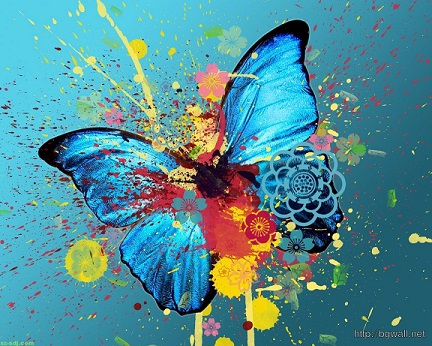
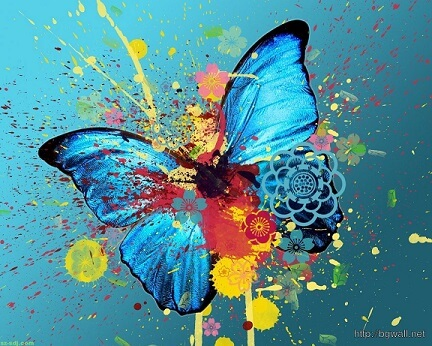
Minor fixes, compress pngs

diff --git a/app/src/main/java/com/amaze/fileutilities/image_viewer/editor/base/BaseActivity.kt b/app/src/main/java/com/amaze/fileutilities/image_viewer/editor/base/BaseActivity.kt
@@ -10,23 +10,24 @@
 
 package com.amaze.fileutilities.image_viewer.editor.base
 
-import android.R
-import android.app.ProgressDialog
 import android.content.pm.PackageManager
 import android.view.View
 import android.view.Window
 import android.view.WindowManager
 import android.widget.Toast
 import androidx.activity.result.contract.ActivityResultContracts
+import androidx.appcompat.app.AlertDialog
 import androidx.appcompat.app.AppCompatActivity
 import androidx.core.content.ContextCompat
+import com.amaze.fileutilities.R
+import com.amaze.fileutilities.utilis.Utils.Companion.showProcessingDialog
 import com.google.android.material.snackbar.Snackbar
 
 /**
  * Created by Burhanuddin Rashid on 1/17/2018.
  */
 open class BaseActivity : AppCompatActivity() {
-    private var mProgressDialog: ProgressDialog? = null
+    private var mProgressDialog: AlertDialog? = null
     private var mPermission: String? = null
 
     private val permissionLauncher =
@@ -57,13 +58,11 @@ open class BaseActivity : AppCompatActivity() {
     }
 
     protected fun showLoading(message: String) {
-        mProgressDialog = ProgressDialog(this)
-        mProgressDialog?.run {
-            setMessage(message)
-            setProgressStyle(ProgressDialog.STYLE_SPINNER)
-            setCancelable(false)
-            show()
-        }
+        mProgressDialog = showProcessingDialog(
+            layoutInflater,
+            message
+        ).create()
+        mProgressDialog?.show()
     }
 
     protected fun hideLoading() {

diff --git a/app/src/main/java/com/amaze/fileutilities/image_viewer/ImageViewerActivity.kt b/app/src/main/java/com/amaze/fileutilities/image_viewer/ImageViewerActivity.kt
@@ -50,11 +50,13 @@ class ImageViewerActivity : PermissionsActivity() {
 
         val imageModel = LocalImageModel(uri = imageUri, mimeType = mimeType)
         viewModel.processSiblingImageModels(imageModel)
+
+        val dialog = showProcessingDialog(
+            layoutInflater,
+            getString(R.string.please_wait)
+        ).create()
+
         viewModel.siblingImagesLiveData.observe(this) {
-            val dialog = showProcessingDialog(
-                layoutInflater,
-                getString(R.string.please_wait)
-            ).create()
             if (it == null) {
                 dialog.show()
             } else {

diff --git a/app/src/main/java/com/amaze/fileutilities/image_viewer/editor/TextEditorDialogFragment.kt b/app/src/main/java/com/amaze/fileutilities/image_viewer/editor/TextEditorDialogFragment.kt
@@ -91,6 +91,7 @@ class TextEditorDialogFragment : DialogFragment() {
         mAddTextEditText!!.setText(requireArguments().getString(EXTRA_INPUT_TEXT))
         mColorCode = requireArguments().getInt(EXTRA_COLOR_CODE)
         mAddTextEditText!!.setTextColor(mColorCode)
+        mAddTextEditText!!.requestFocus()
         mInputMethodManager!!.toggleSoftInput(InputMethodManager.SHOW_FORCED, 0)
 
         // Make a callback on activity when user is done with text editing

diff --git a/app/src/main/java/com/amaze/fileutilities/image_viewer/ImageViewerViewModel.kt b/app/src/main/java/com/amaze/fileutilities/image_viewer/ImageViewerViewModel.kt
@@ -25,6 +25,7 @@ class ImageViewerViewModel : ViewModel() {
             /*withContext(Dispatchers.Main) {
                 siblingImagesLiveData.value = null
             }*/
+            siblingImagesLiveData.postValue(null)
             if (siblingImagesLiveData.value.isNullOrEmpty()) {
                 imageModel.uri.getSiblingUriFiles().run {
                     val imageModelList = ArrayList<LocalImageModel>()

diff --git a/app/src/main/java/com/amaze/fileutilities/home_page/ui/files/SearchListFragment.kt b/app/src/main/java/com/amaze/fileutilities/home_page/ui/files/SearchListFragment.kt
@@ -103,6 +103,7 @@ class SearchListFragment :
             searchEditText?.threshold = 0
             searchEditText?.setAdapter(adapter)
         }
+        searchEditText?.requestFocus()
         preloader = MediaAdapterPreloader(
             requireContext(),
             R.drawable.ic_outline_insert_drive_file_32
